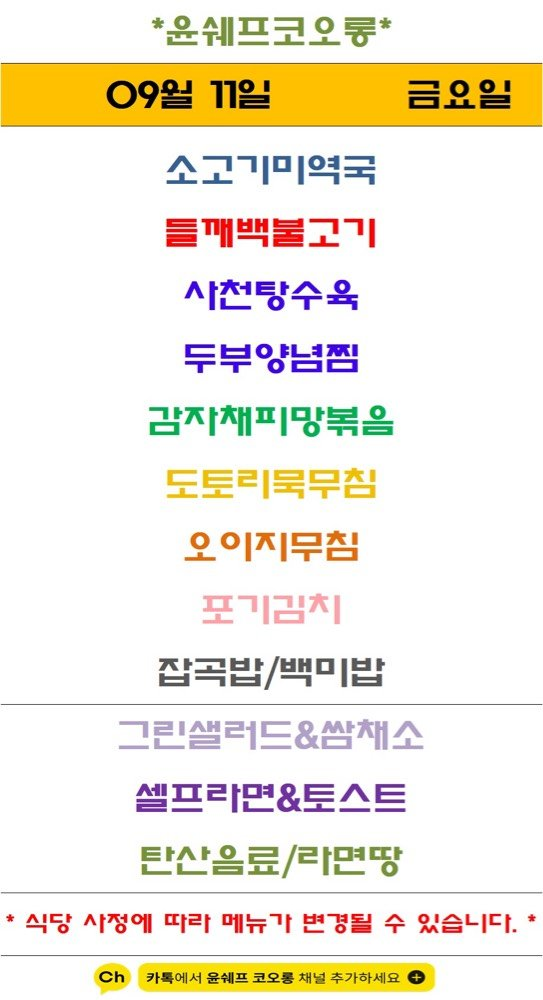
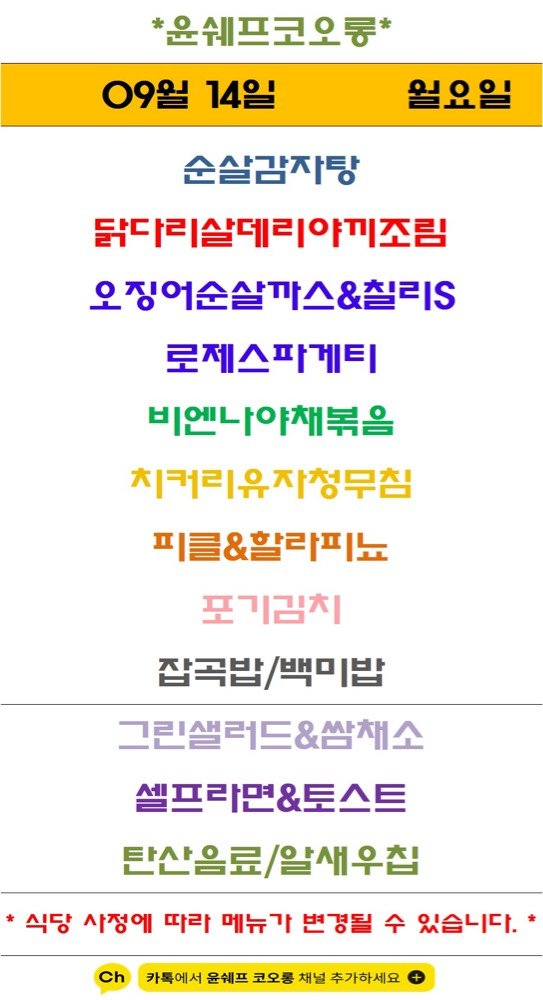
Update menu board assets

diff --git a/guro-menu/index.html b/guro-menu/index.html
@@ -32,7 +32,7 @@
   </header>
   <section class="meta">
     <div><small>기준 날짜</small><strong>2026년 9월 14일 월요일</strong></div>
-    <div><small>최종 갱신</small><strong>2026-09-14 09:03:22</strong></div>
+    <div><small>최종 갱신</small><strong>2026-09-14 09:12:58</strong></div>
     <div><small>등록 식당</small><strong>5개</strong></div>
   </section>
   <div class="notice">공개 카카오 채널의 메뉴 이미지를 자동 수집하고 OCR로 정리합니다. 텍스트에 오타가 있을 수 있으니 식단 이미지를 함께 확인해 주세요.</div>
@@ -103,8 +103,8 @@
           <a class="channel" href="https://pf.kakao.com/_Xxhxkhs" target="_blank" rel="noopener">원본 채널</a>
         </div>
         <img class="menu-image" src="./images/yoon-chef-kolon.png" alt="윤쉐프 코오롱 식단 이미지" loading="lazy">
-        <p class="message">최신 공개 식단 이미지의 텍스트입니다. 날짜는 원본 이미지를 확인해 주세요.</p>
-        <ul><li>소고기미역국</li><li>들깨백불고기</li><li>두부양념찜</li><li>라자채피망볶음</li><li>오이지무침</li><li>잡곡밥/백미밥</li><li>그린샐러드&amp;쌈채소</li><li>셀프라면&amp;토스트</li><li>탄산옴료/라면땅</li></ul>
+        
+        <ul><li>순살감자탕</li><li>닭다리살데리야끼조림</li><li>오징어순살까스&amp;칠리6</li><li>로제스파게티</li><li>비엔나야재볶음</li><li>피클&amp;활라피뇨</li><li>잡곡밥/벽미밥</li><li>그린샐러드&amp;쌈채소</li><li>셀프라면&amp;토스트</li><li>탄산음료/알새우칩</li></ul>
       </article>
   </section>
   <section class="seo" aria-label="검색 정보">한신IT타워 구내식당 자연푸드 구내식당 더이츠푸드 벽산더이룸 윤쉐프 코오롱 한신IT타워 벽산디지털밸리7차 대륭포스트타워1차 벽산디지털밸리1차 코오롱싸이언스밸리1차 서울 구로구 디지털로 272 한신IT타워 지하1층 서울 구로구 디지털로33길 50 벽산디지털밸리7차 지하1층 서울 구로구 디지털로 288 대륭포스트타워1차 지하1층 서울 구로구 디지털로27길 24 벽산디지털밸리1차 지하1층 서울 구로구 디지털로34길 43 코오롱싸이언스밸리1차 지하1층</section>

diff --git a/menu-today/index.html b/menu-today/index.html
@@ -209,7 +209,7 @@
 
     <section class="meta-bar">
       <div class="meta-card"><div class="meta-label">기준 날짜</div><div class="meta-value">2026년 9월 14일 월요일</div></div>
-      <div class="meta-card"><div class="meta-label">최종 가져온 시간</div><div class="meta-value">2026-09-14 09:03:10</div></div>
+      <div class="meta-card"><div class="meta-label">최종 가져온 시간</div><div class="meta-value">2026-09-14 09:12:43</div></div>
       <div class="meta-card"><div class="meta-label">확인 완료</div><div class="meta-value">9개 식당</div></div>
       <div class="meta-card"><div class="meta-label">준비중</div><div class="meta-value">3개 채널</div></div>
     </section>
